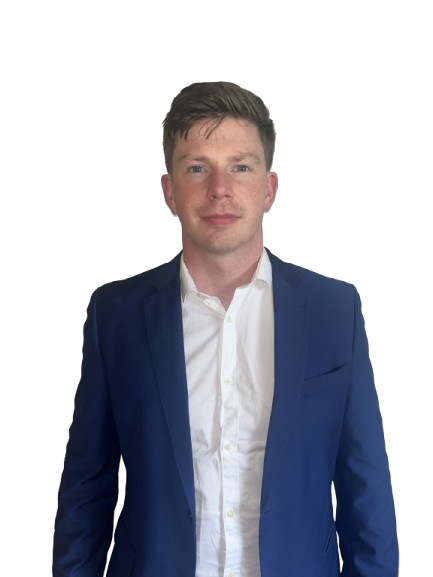
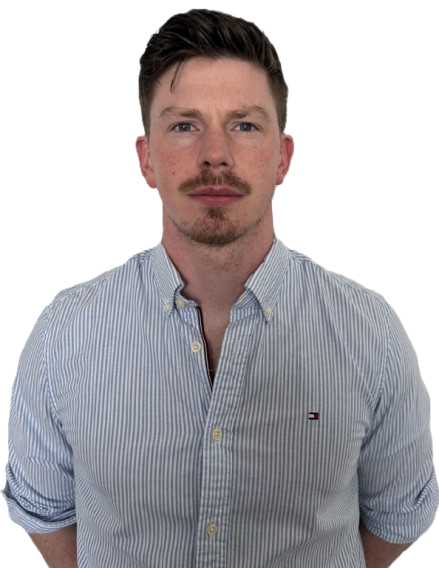
Updating landing page. Text and image

diff --git a/src/pages/home/Home.js b/src/pages/home/Home.js
@@ -95,9 +95,6 @@ const HeaderImage = ({setTextFunc, displayText, aboutSectionRef}) => {
                 <h2>Welcome!</h2> 
                 <h2>I am <h2 className="text-style">Robert Laffan</h2></h2> 
                 <div className="middle-text">
-                    <div className="static-text">               
-                        <h1>I am...</h1>
-                    </div>
                     <div className="dynamic-text">
                         <h1>{displayTitleDesc}</h1>
                     </div>

diff --git a/src/pages/home/Home.css b/src/pages/home/Home.css
@@ -78,8 +78,8 @@ h1, h2{
 }
 
 .profile-image-wrapper::before {
-    top: 2em;
-    left: 2em;
+    top: 0em;
+    left: 0em;
     width: 3em; /* Adjust size of the corner border */
     height: 3em;
     border-right: none;
@@ -88,7 +88,7 @@ h1, h2{
 
 .profile-image-wrapper::after {
     bottom: -1.2em;
-    right: 0;
+    right: -1em;
     width: 3em; /* Adjust size of the corner border */
     height: 3em;
     border-left: none;
